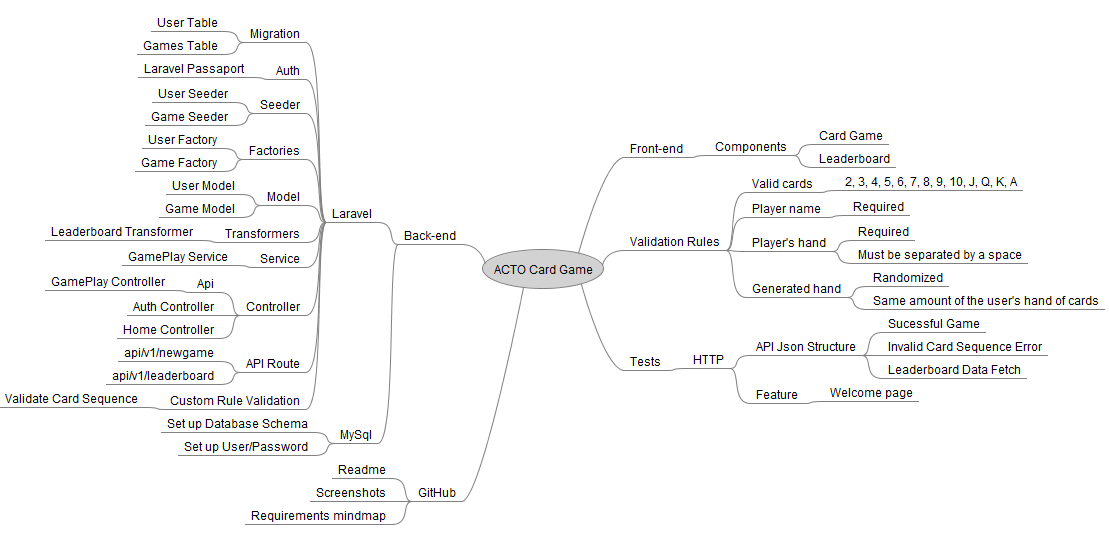
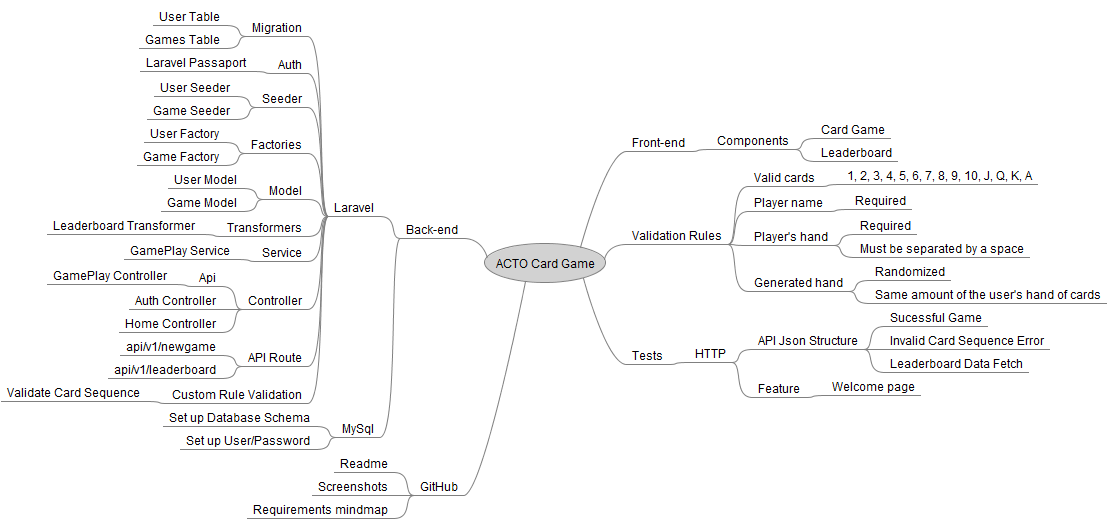
Update Readme and Add Screenshots

diff --git a/app/Rules/ValidCardSequence.php b/app/Rules/ValidCardSequence.php
@@ -50,7 +50,7 @@ class ValidCardSequence implements Rule
      */
     public function message()
     {
-        return 'Wrong format. Please inform it accordingly. Valid options are: \'2, 3, 4, 5, 6, 7, 8, 9, 10, J, Q, K, A\'';
+        return 'Wrong format. Please inform it accordingly. Valid options are: \'1, 2, 3, 4, 5, 6, 7, 8, 9, 10, J, Q, K, A\'';
     }
 
 
